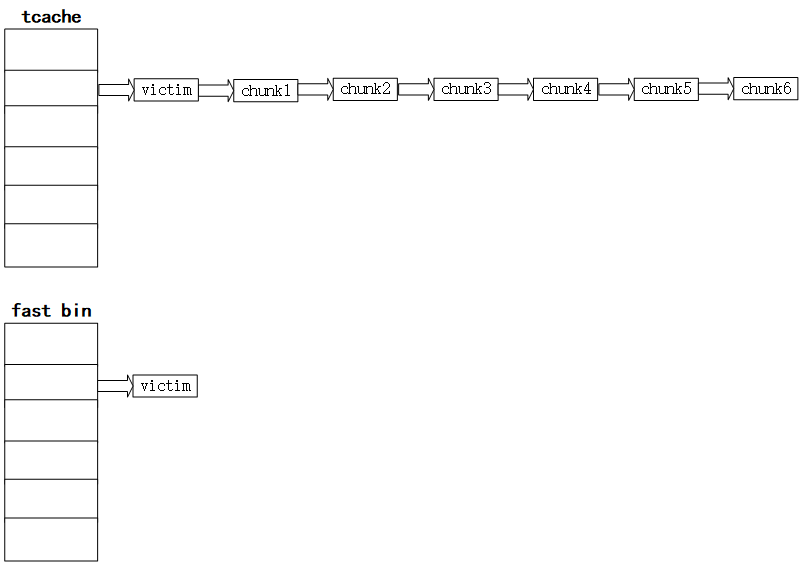
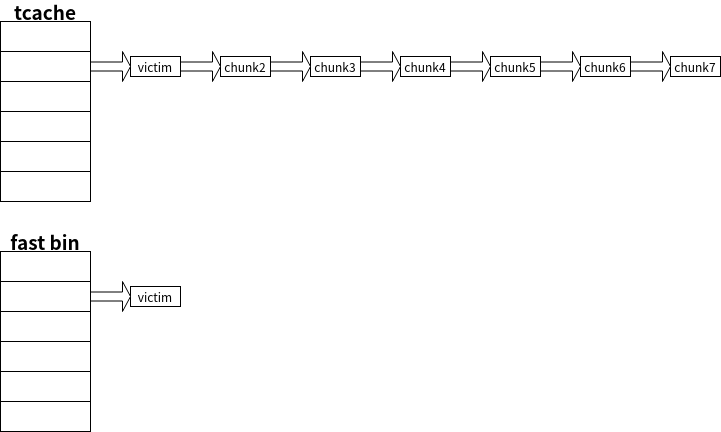
修改博客——tcache中的double free:更改演示double free时，错误的分配了tcache7，而非tcache1

Changed region(s): [[0.0, 0.0, 1.0, 0.4815], [0.0, 0.5417, 0.2746, 1.0]]

diff --git a/source/_posts/tcache中的double-free.md b/source/_posts/tcache中的double-free.md
@@ -79,7 +79,7 @@ tcache_put (mchunkptr chunk, size_t tc_idx)
   ![tcache填充满](tcache填充满.PNG)
 2. 将**victim**内存块释放掉。由于**tcache**已经满了，则其会被释放到对应大小的**fast bin**链上，如下图所示
   ![释放victim](释放victim.PNG)
-3. 申请一个与**victim**相同大小的chunk。根据**malloc**的分配流程，其会首先从**tcache**中进行申请，然后再去查找**fast bin**。因此这里会分配前面的**chunk7**，如下图所示
+3. 申请一个与**victim**相同大小的chunk。根据**malloc**的分配流程，其会首先从**tcache**中进行申请，然后再去查找**fast bin**。因此这里会分配前面的**chunk1**，如下图所示
   ![重新申请内存](重新申请内存.PNG)
 4. 重新释放**victim**内存块。由于之前**tcache**中没有释放过**victim**，则可以正常释放；但是**fast bin**中已经有**victim**内存块，则完成了**double free**，如下图所示
   ![再次释放victim](再次释放victim.PNG)
